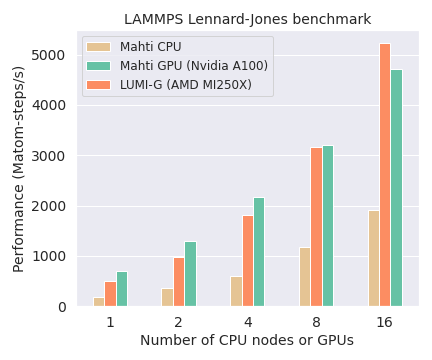
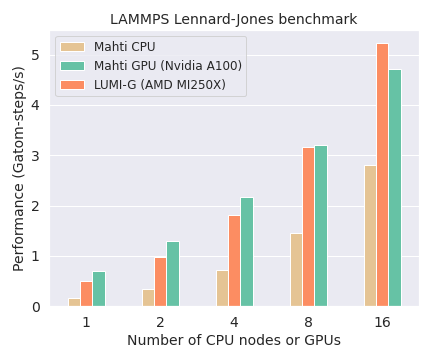
Kokkos and more notes

diff --git a/docs/apps/lammps.md b/docs/apps/lammps.md
@@ -14,12 +14,18 @@ needs a more or less customized version. Please read below how to create yours.
 
 ## Available
 
-- Puhti: Instructions and CMake input files available for building in
+- Puhti: Instructions and CMake files available for building in
   `/appl/soft/chem/lammps/`
-- Mahti: Instructions and CMake input files available for building in
+- Mahti: Instructions and CMake files available for building in
   `/appl/soft/chem/lammps/`
-- LUMI: Instructions and CMake input file available for building in
+- LUMI: Instructions and CMake files available for building in
   `/appl/local/csc/soft/chem/lammps`
+
+!!! info "Note"
+    Don't use prebuilt binaries, but take a look at the instructions above for
+    configuring and compiling LAMMPS for optimal performance. Don't hesitate to
+    [contact CSC Service Desk](../support/contact.md) if you encounter any
+    problems!
 
 ## License
 
@@ -28,51 +34,58 @@ Public License (GPL).
 
 ## Usage
 
-!!! info "Note"
-    Don't use prebuilt binaries, but take a look at the instructions for
-    configuring and compiling LAMMPS for optimal performance.
-
 1. Navigate to `/appl/soft/chem/lammps/` on Puhti/Mahti, or
-   `/appl/local/csc/soft/chem/lammps` on LUMI
+   `/appl/local/csc/soft/chem/lammps` on LUMI.
 2. If you can't find a pre-downloaded source code (e.g.
-   `stable_2Aug2023.tar.gz`) or a suitable LAMMPS version, download it yourself
-   from the [LAMMPS home page](https://lammps.org/download.html).
-3. Read the compilation instructions, e.g. `lammps-cpu-instruction.txt`
-4. Configure the packages you want to include and compile the software
+   `stable_2Aug2023.tar.gz`) or the LAMMPS version is not suitable, download it
+   yourself from the [LAMMPS home page](https://lammps.org/download.html).
+3. Read the compilation instructions, e.g. `lammps-cpu-instruction.txt`.
+4. Select the packages you want to include and compile the software.
+5. Example input and batch scripts are available in the `example` directory.
 
-!!! info "Note"
-    Please compile in `$TMPDIR` on Puhti/Mahti for faster performance and less load
-    on the shared file system. Make sure to set `-DCMAKE_INSTALL_PREFIX` to
-    point to `/projappl/<project>/...` so that the files will be moved away
-    from the local disk when running `make install`. The local disk is cleaned
-    frequently and if the files are not moved they will get deleted after a 
-    while. Please see the installation instructions for specific details.
-    
-    If you encounter any problems compiling LAMMPS, don't hesitate to
-    [contact CSC Service Desk](../support/contact.md)!
+!!! info "Compile using the fast local disk"
+    Please compile in `$TMPDIR` on Puhti/Mahti for faster performance and
+    less load on the shared file system. As the local disk is cleaned
+    frequently, remember to move your files to your project's `/projappl`
+    directory afterwards. Setting `-DCMAKE_INSTALL_PREFIX=/projappl/...` will
+    ensure that the files are moved automatically when running `make install`.
+    See the provided build instructions for specific details.
+
+!!! info "GPU versions"
+    To enable GPU support, we recommend building LAMMPS with the Kokkos
+    package. Kokkos is a portable programming model that allows running on both
+    Nvidia and AMD GPUs. It is typically also more efficient than the standard
+    GPU package.
+
+    When running, it is recommended to set the number of MPI tasks per node to
+    be equal to the number of physical GPUs on the node (GCDs on LUMI).
+    Assigning multiple MPI tasks to the same GPU is usually only faster if some
+    portions of the input script have not been ported to use Kokkos. See
+    [the LAMMPS documentation](https://docs.lammps.org/Speed_kokkos.html) for
+    more details.
 
 Consult these pages for generic instructions about running jobs:
 
 * [How to create batch jobs on Puhti](../computing/running/creating-job-scripts-puhti.md)
 * [How to create batch jobs on Mahti](../computing/running/creating-job-scripts-mahti.md).
-* [How to create batch jobs on LUMI](https://docs.lumi-supercomputer.eu/runjobs/scheduled-jobs/slurm-quickstart/)
-
-### Example CPU batch script for Puhti
-
-### Example GPU batch script for Puhti
-
-### Example CPU batch script for Mahti
-
-### Example GPU batch script for Mahti
-
-### Example GPU batch script for LUMI-G
+* [How to create batch jobs on LUMI](https://docs.lumi-supercomputer.eu/runjobs/scheduled-jobs/batch-job/)
 
 ### Performance notes
 
 The following diagram compares the performance and scaling of LAMMPS on
-CPUs and GPUs on Mahti and LUMI.
+CPUs and GPUs on Mahti and LUMI. The system contains 16M atoms.
 
 ![LAMMPS performance](../img/lammps-bench.png 'LAMMPS performance')
+
+* LAMMPS peformance is measured here in Gatom-steps/s, i.e. how many billion
+  atoms can be propagated one time step each second.
+* Large systems (millions of atoms) are able to utilize multiple GPUs
+  efficiently. The example system of 16M atoms scales well to several GPU nodes
+  and is about 10 times faster compared to running on an equal amount of CPU
+  nodes.
+* Smaller systems are best run on CPUs or a single GPU (or by sharing one GPU
+  among multiple independent trajectories using multi-replica simulations,
+  [see below](#high-throughput-computing-with-lammps)).
 
 ### High-throughput computing with LAMMPS
 
@@ -81,8 +94,8 @@ independent simulations using a single input file. The `-partition`
 command-line switch enables running these concurrently within a
 single Slurm job step, thus accelerating the computations while keeping the
 load on the batch queue system minimal as excessive calls of `srun` or `sbatch`
-are avoided. An example LAMMPS batch script using the `-partition` option is
-provided below.
+are avoided. An example batch script using the `-partition` option is provided
+for Puhti below.
 
 ```bash
 #!/bin/bash
@@ -93,7 +106,11 @@ provided below.
 #SBATCH --ntasks-per-node=40
 #SBATCH --mem-per-cpu=100
 
-export PATH=/path/to/lmp/bin:$PATH
+module purge
+module load gcc/11.3.0 openmpi/4.1.4 fftw/3.3.10-mpi-omp
+
+export PATH=/path/to/your/lammps/bin:$PATH
+export OMP_NUM_THREADS=1
 
 srun lmp -in loop.lammps -partition 24x5
 ```
@@ -107,7 +124,7 @@ requested, in this case 3 full Puhti nodes (120 cores). In general, the
 partitions do not have to be of equal size, but one could for example specify
 `-partition 3x30 20 10` for 3 partitions of 30 cores, one of 20 cores and one
 of 10 cores (3 Puhti nodes). This does of course not make sense for jobs where
-the subtasks are virtually identical such as here.
+the subtasks are virtually identical, such as here.
 
 If the `-partition` switch is used one needs to replace the usual `index` and
 `loop` variable styles used in the input of sequential simulations. The
@@ -116,6 +133,30 @@ corresponding styles compatible with multi-partition jobs are `world`,
 [running multiple simulations from one input script](https://docs.lammps.org/Howto_multiple.html),
 the [partition switch](https://docs.lammps.org/Run_options.html#partition) and
 [variable styles compatible with multi-partition jobs](https://docs.lammps.org/variable.html).
+
+A batch script for running the same system by sharing a single LUMI GCD (half
+a GPU) among all 24 replicas could look like:
+
+```bash
+#!/bin/bash
+#SBATCH --account=<project>
+#SBATCH --partition=small-g
+#SBATCH --time=00:15:00
+#SBATCH --nodes=1
+#SBATCH --ntasks-per-node=24
+#SBATCH --gpus-per-node=1
+
+module load PrgEnv-amd craype-accel-amd-gfx90a rocm cray-fftw
+
+export PATH=/path/to/your/lammps/installation/bin:$PATH
+export OMP_NUM_THREADS=1
+
+export MPICH_GPU_SUPPORT_ENABLED=1
+export OMP_PROC_BIND=spread
+export OMP_PLACES=threads
+
+srun lmp -in loop.lammps -k on g 1 -sf kk -pk kokkos -partition 24x1
+```
 
 ## References
 
